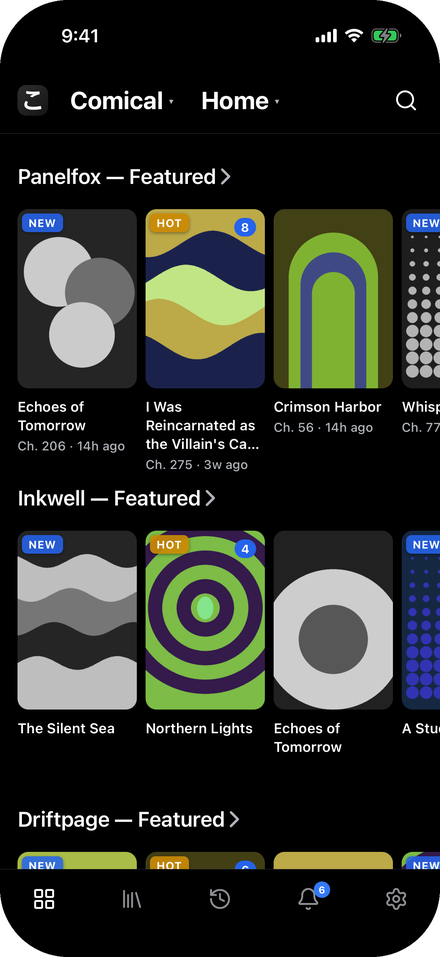
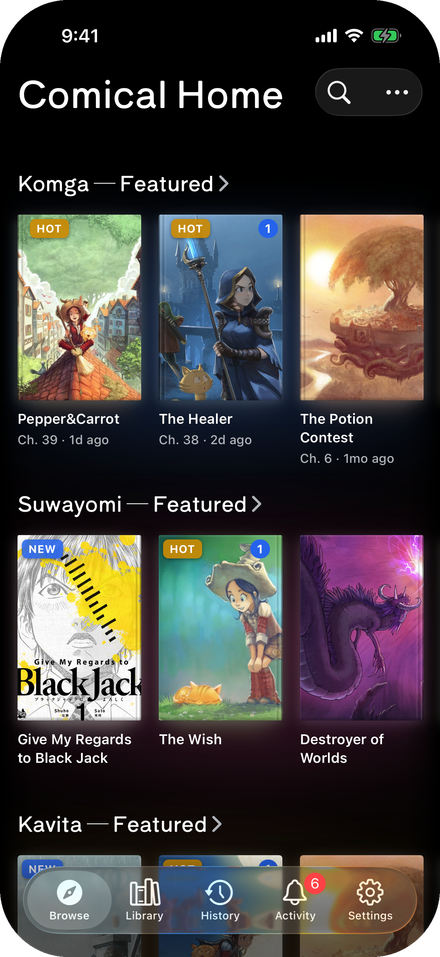
New screenshots: real comics, the official sources, and the Duo
Reshot from the capture workflow at 92c0f4b: Home, a series page and the reader
on an iPhone, Home in the desktop app, and Home on an iPhone Duo folded and
open, which the README gains a row for.

The iPhone and Duo shots are of Home's rails. A simulator cannot draw the
bookshelf, so the desktop shot is the one that shows it. The reader is shot
with its bar up, where the old one was full-bleed; the site's captions follow.

Claude-Session: https://claude.ai/code/session_01MQsXETCazZTvr7dq6uFDud

diff --git a/README.md b/README.md
@@ -27,6 +27,11 @@
   <img src="docs/media/04-desktop.png" alt="Browsing on the desktop app" width="744" />
 </p>
 
+<p align="center">
+  <img src="docs/media/05-duo-folded.png" alt="Home on a folded iPhone Duo" width="240" />
+  <img src="docs/media/06-duo-open.png" alt="Home on an open iPhone Duo" width="480" />
+</p>
+
 ## Features
 
 - **Paged and long-strip** readers
